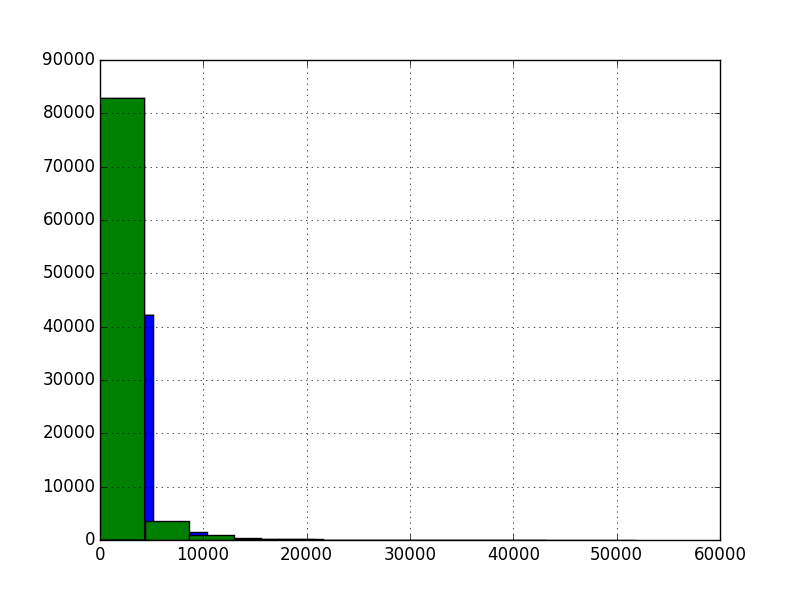
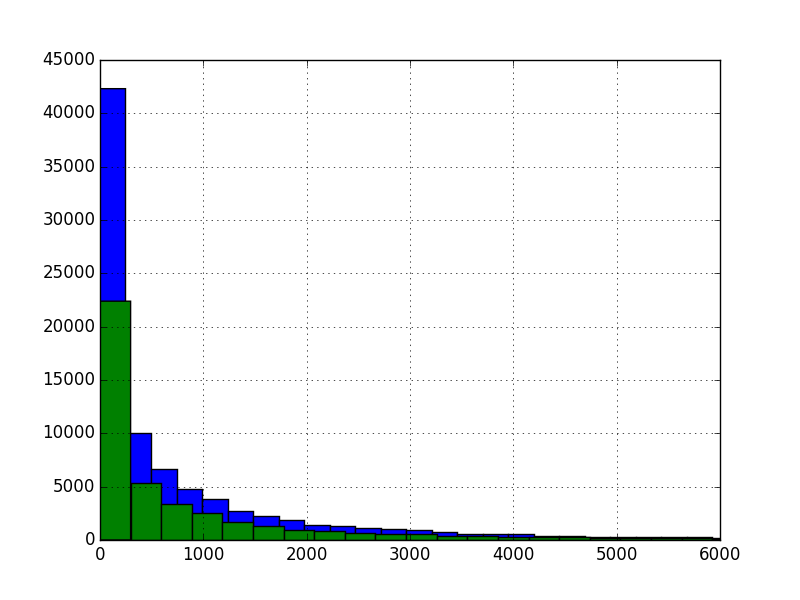
Updated project files

diff --git a/project_5/average_rides_per_day/average_rides_per_weather_mapper.py b/project_5/average_rides_per_day/average_rides_per_weather_mapper.py
@@ -1,0 +1,48 @@
+import sys
+
+def mapper():
+    '''
+    For this exercise, compute the average value of the ENTRIESn_hourly column
+    for different weather types. Weather type will be defined based on the
+    combination of the columns fog and rain (which are boolean values).
+    For example, one output of our reducer would be the average hourly entries
+    across all hours when it was raining but not foggy.
+
+    Each line of input will be a row from our final Subway-MTA dataset in csv format.
+    You can check out the input csv file and its structure below:
+    https://www.dropbox.com/s/meyki2wl9xfa7yk/turnstile_data_master_with_weather.csv
+
+    Note that this is a comma-separated file.
+
+    This mapper should PRINT (not return) the weather type as the key (use the
+    given helper function to format the weather type correctly) and the number in
+    the ENTRIESn_hourly column as the value. They should be separated by a tab.
+    For example: 'fog-norain\t12345'
+
+    Since you are printing the output of your program, printing a debug
+    statement will interfere with the operation of the grader. Instead,
+    use the logging module, which we've configured to log to a file printed
+    when you click "Test Run". For example:
+    logging.info("My debugging message")
+    Note that, unlike print, logging.info will take only a single argument.
+    So logging.info("my message") will work, but logging.info("my","message") will not.
+    '''
+
+    # Takes in variables indicating whether it is foggy and/or rainy and
+    # returns a formatted key that you should output.  The variables passed in
+    # can be booleans, ints (0 for false and 1 for true) or floats (0.0 for
+    # false and 1.0 for true), but the strings '0.0' and '1.0' will not work,
+    # so make sure you convert these values to an appropriate type before
+    # calling the function.
+    def format_key(fog, rain):
+        return '{}fog-{}rain'.format(
+            '' if fog else 'no',
+            '' if rain else 'no'
+        )
+    for line in sys.stdin:
+        data = line.strip().split(',')
+        if data[0] == "" or len(data) !=22:
+            continue
+        else:
+            print (format_key(float(data[14]),float(data[15])) + '\t' + data[6])
+mapper()

diff --git a/project_5/average_rides_per_day/average_rides_per_weather_reducer.py b/project_5/average_rides_per_day/average_rides_per_weather_reducer.py
@@ -1,0 +1,50 @@
+import sys
+
+def reducer():
+    '''
+    Given the output of the mapper for this assignment, the reducer should
+    print one row per weather type, along with the average value of
+    ENTRIESn_hourly for that weather type, separated by a tab. You can assume
+    that the input to the reducer will be sorted by weather type, such that all
+    entries corresponding to a given weather type will be grouped together.
+
+    In order to compute the average value of ENTRIESn_hourly, you'll need to
+    keep track of both the total riders per weather type and the number of
+    hours with that weather type. That's why we've initialized the variable
+    riders and num_hours below. Feel free to use a different data structure in
+    your solution, though.
+
+    An example output row might look like this:
+    'fog-norain\t1105.32467557'
+
+    Since you are printing the output of your program, printing a debug
+    statement will interfere with the operation of the grader. Instead,
+    use the logging module, which we've configured to log to a file printed
+    when you click "Test Run". For example:
+    logging.info("My debugging message")
+    Note that, unlike print, logging.info will take only a single argument.
+    So logging.info("my message") will work, but logging.info("my","message") will not.
+    '''
+
+#    riders = 0      # The number of total riders for this key
+#    num_hours = 0   # The number of hours with this key
+#    old_key = None
+
+    weather = {}
+    for line in sys.stdin:
+        data = line.strip().split('\t')
+        if len(data) !=2:
+            continue
+        else:
+            key = data[0]
+            if key not in weather:
+                weather[key] = [float(data[1]), 1, 0.]
+            else:
+                weather[key][0] += float(data[1])
+                weather[key][1] += 1
+    for key in weather:
+        weather[key][2] = weather[key][0]/weather[key][1]
+        print (key + '\t' + str(weather[key][2]))
+
+reducer()
+

diff --git a/project_3/linear_regression/predictions.py b/project_3/linear_regression/predictions.py
@@ -1,5 +1,6 @@
 import pandas as pd
 import numpy as np
+from ggplot import *
 
 def normalize_features(array):
    """
@@ -85,7 +86,25 @@ def predictions(dataframe):
                                                             alpha, num_iterations)
     predictions = np.dot(features_array, theta_gradient_descent)
 
-    return predictions
+    plot = plot_cost_history(alpha, cost_history)
+    return predictions, plot
+
+def plot_cost_history(alpha, cost_history):
+   """This function is for viewing the plot of your cost history.
+   You can run it by uncommenting this plot_cost_history(alpha,
+   cost_history) call in predictions.
+
+   If you want to run this locally, you should print the return value
+   from this function.
+   """
+   cost_df = pd.DataFrame({
+      'Cost_History': cost_history,
+      'Iteration': range(len(cost_history))
+   })
+   return ggplot(cost_df, aes('Iteration', 'Cost_History')) + \
+      geom_point() + ggtitle('Cost History for alpha = %.3f' % alpha )
+
+
 
 def compute_r_squared(data, predictions):
     SST = ((data-np.mean(data))**2).sum()
@@ -98,7 +117,7 @@ def compute_r_squared(data, predictions):
 if __name__ == "__main__":
     input_filename = "turnstile_data_master_with_weather.csv"
     turnstile_master = pd.read_csv(input_filename)
-    predicted_values = predictions(turnstile_master)
+    predicted_values, cost_plot = predictions(turnstile_master)
     r_squared = compute_r_squared(turnstile_master['ENTRIESn_hourly'], predicted_values) 
 
-    print r_squared
+    print r_squared, cost_plot

diff --git a/project_4/exercise_2/data_visualization.py b/project_4/exercise_2/data_visualization.py
@@ -34,15 +34,7 @@ def plot_weather_data(turnstile_weather):
     of the actual data in the turnstile_weather dataframe
     '''
 
-    # entriesByDayOfMonth = df[['DATEn', 'ENTRIESn_hourly']] \
-    #     .groupby('DATEn', as_index=False).sum()
-    # entriesByDayOfMonth['Day'] = [datetime.strptime(x, '%Y-%m-%d').strftime('%w %A') \
-    #      for x in entriesByDayOfMonth['DATEn']]
-    # entriesByDay = entriesByDayOfMonth[['Day', 'ENTRIESn_hourly']]. \
-    #     groupby('Day', as_index=False).sum()
-    # plot = ggplot(entriesByDay, aes(x='Day', y='ENTRIESn_hourly')) + geom_bar(aes(weight='ENTRIESn_hourly'), fill='blue',stat='bar') + ggtitle('NYC Subway ridership by day of week') + xlab('Day') + ylab('Entries')
-
-    plot = ggplot(turnstile_weather, aes('EXITSn_hourly', 'ENTRIESn_hourly')) + stat_smooth(span=.15, color='black', se=True)+ geom_point(color='lightblue') + ggtitle("MTA Entries By The Hour!") + xlab('Exits') + ylab('Entries')
+    plot = ggplot(turnstile_weather, aes('EXITSn_hourly', 'ENTRIESn_hourly')) + stat_smooth(span=.15, color='black', se=True)+ geom_point(color='lightblue') + ggtitle("MTA Entries and Exits") + xlab('Exits') + ylab('Entries')
     return plot
 
 if __name__ == "__main__":

diff --git a/project_3/plot_histogram/plot_histogram.py b/project_3/plot_histogram/plot_histogram.py
@@ -26,8 +26,10 @@ def entries_histogram(turnstile_weather):
     https://www.dropbox.com/s/meyki2wl9xfa7yk/turnstile_data_master_with_weather.csv
     '''
     plt.figure()
-    (turnstile_weather[turnstile_weather.rain==1].ENTRIESn_hourly).hist() # your code here to plot a historgram for hourly entries when it is raining
-    (turnstile_weather[turnstile_weather.rain==0].ENTRIESn_hourly).hist() # your code here to plot a historgram for hourly entries when it is not raining
+    (turnstile_weather[turnstile_weather.rain==0].ENTRIESn_hourly).hist(bins=175) # your code here to plot a historgram for hourly entries when it is not raining
+    (turnstile_weather[turnstile_weather.rain==1].ENTRIESn_hourly).hist(bins=175) # your code here to plot a historgram for hourly entries when it is raining
+    plt.ylim(ymax = 45000, ymin = 0)
+    plt.xlim(xmax = 6000, xmin = 0)
     return plt
 
 

diff --git a/project_3/plot_residuals/prediction.py b/project_3/plot_residuals/prediction.py
@@ -16,7 +16,9 @@ def plot_residuals(dataframe, predictions):
     '''
 
     plt.figure()
-    (dataframe[u'ENTRIESn_hourly'] - predictions).hist()
+    (dataframe[u'ENTRIESn_hourly'] - predictions).hist(bins=150)
+    plt.xlim(xmax = 10000, xmin = -10000)
+
     return plt
 
 def normalize_features(array):

diff --git a/project_5/busiest_hour/busiest_hour_reducer.py b/project_5/busiest_hour/busiest_hour_reducer.py
@@ -39,5 +39,5 @@ def reducer():
                     entries[key] = [data[2] + ' ' + data[3], riders]
     for key in entries:
         print (key + '\t' + str(entries[key][0]) + '\t' + str(entries[key][1]))
-    
+
 reducer()
